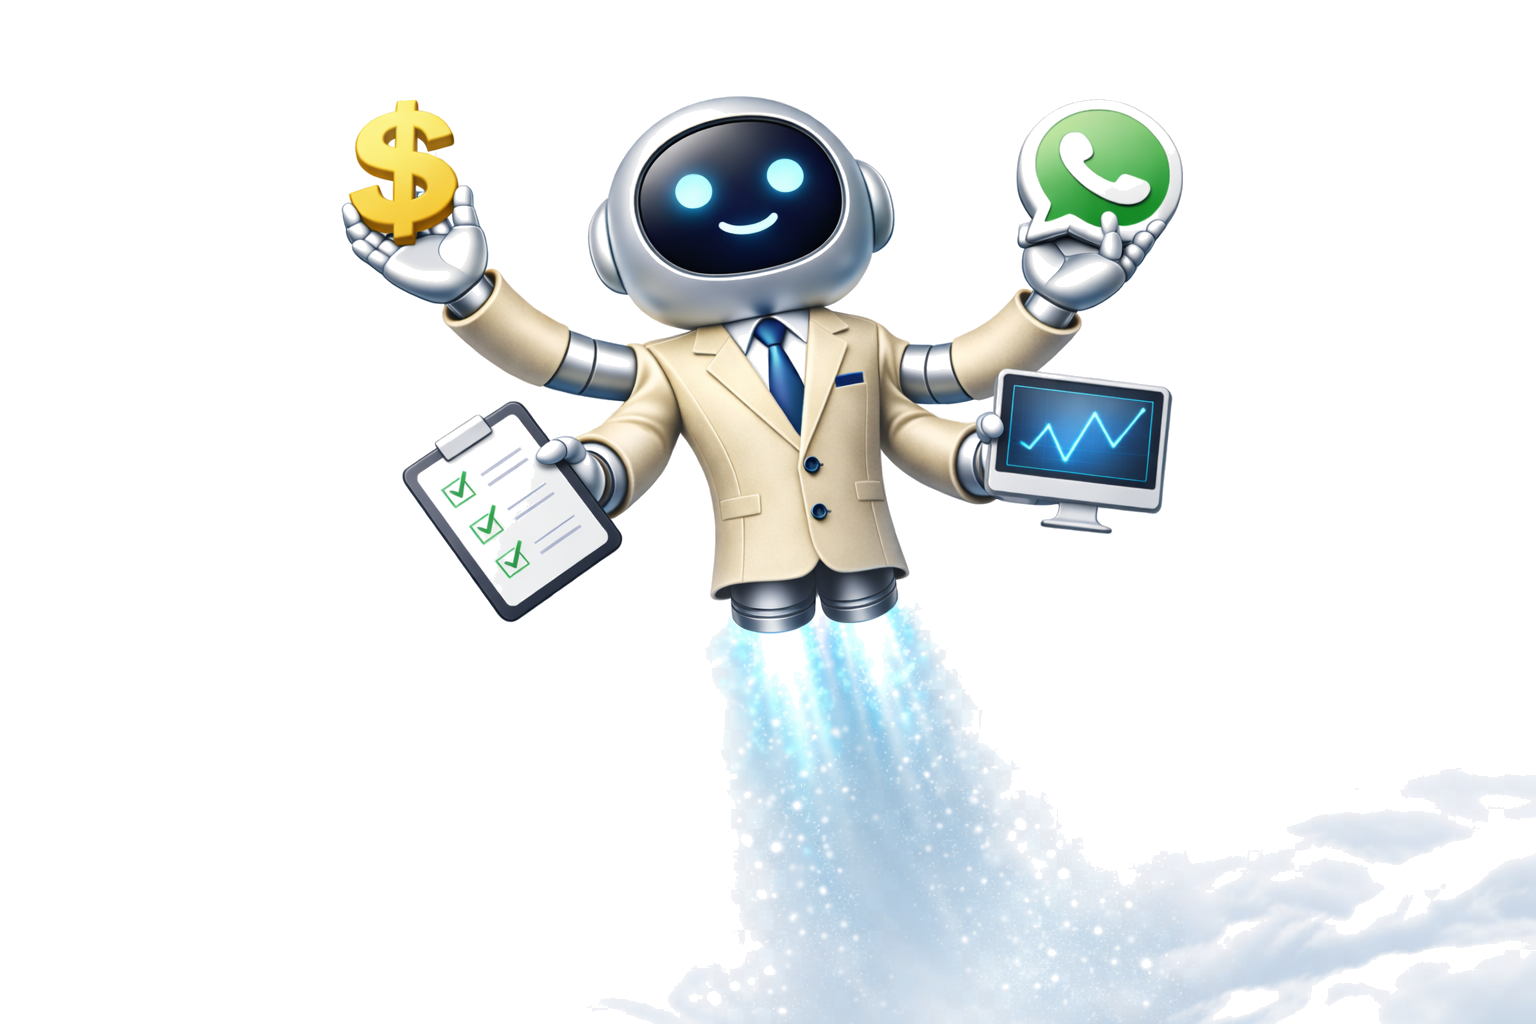
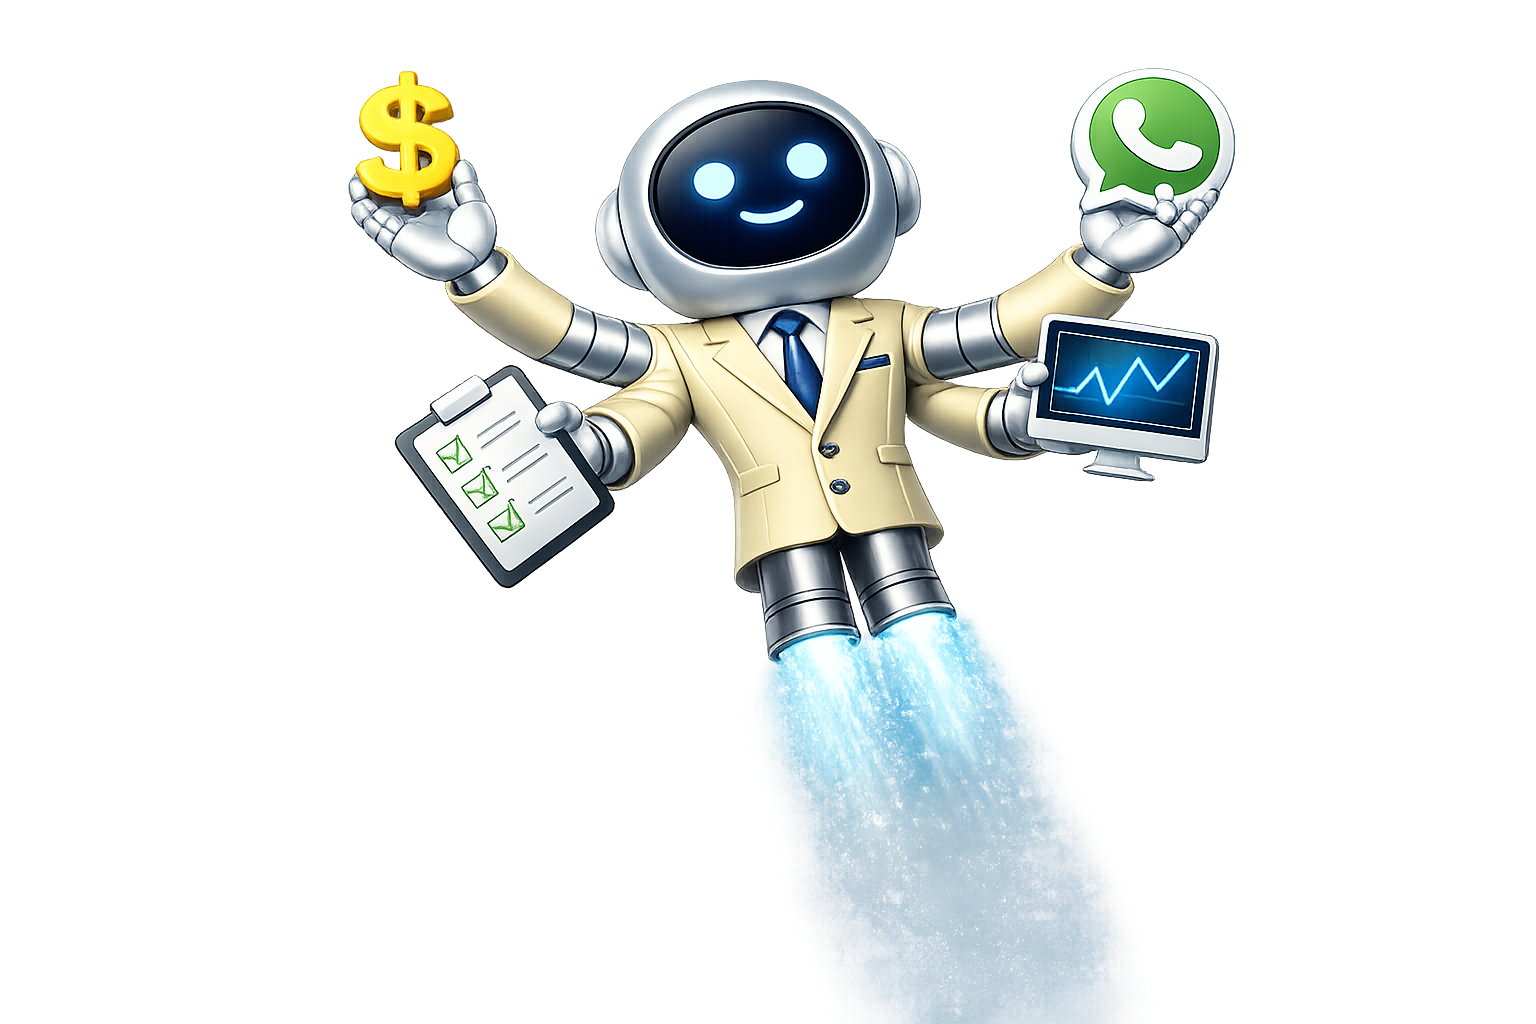
Reverted to commit c421613433c14bb59cb57a7f83ae53c82336e4a0

Changed region(s): [[0.2188, 0.0625, 1.0, 1.0], [0.9375, 0.75, 0.9688, 0.7812]]

diff --git a/src/components/landing/Hero.tsx b/src/components/landing/Hero.tsx
@@ -9,11 +9,106 @@ export const Hero = () => {
   const { data: activeIspsCount = 0 } = useActiveIspsCount();
   return (
     <section 
-      className="relative pt-20 pb-12 md:pt-24 md:pb-16 overflow-hidden"
+      className="relative pt-24 pb-16 md:pt-32 md:pb-24 overflow-hidden"
       aria-labelledby="hero-heading"
     >
       {/* Background Gradient */}
       <div className="absolute inset-0 bg-gradient-to-br from-primary/5 via-background to-accent/5 z-0" />
+      
+      {/* Optical Fiber Network Animation - Behind all content */}
+      <div className="absolute inset-0 overflow-hidden pointer-events-none z-[1] opacity-30">
+        {/* Diagonal fiber lines with data packets */}
+        
+        {/* Line 1: Diagonal down-right (blue) */}
+        <div className="fiber-line fiber-line-1">
+          <div className="fiber-trail fiber-trail-blue" />
+          <div className="fiber-glow fiber-glow-blue" />
+        </div>
+        
+        {/* Line 2: Diagonal down-left (orange) */}
+        <div className="fiber-line fiber-line-2">
+          <div className="fiber-trail fiber-trail-orange" />
+          <div className="fiber-glow fiber-glow-orange" />
+        </div>
+        
+        {/* Line 3: Slight angle (cyan) */}
+        <div className="fiber-line fiber-line-3">
+          <div className="fiber-trail fiber-trail-cyan" />
+          <div className="fiber-glow fiber-glow-cyan" />
+        </div>
+        
+        {/* Line 4: Steep diagonal (blue) */}
+        <div className="fiber-line fiber-line-4">
+          <div className="fiber-trail fiber-trail-blue" />
+          <div className="fiber-glow fiber-glow-blue" />
+        </div>
+        
+        {/* Line 5: Reverse diagonal (orange) */}
+        <div className="fiber-line fiber-line-5">
+          <div className="fiber-trail fiber-trail-orange" />
+          <div className="fiber-glow fiber-glow-orange" />
+        </div>
+        
+        {/* Line 6: Shallow angle (cyan) */}
+        <div className="fiber-line fiber-line-6">
+          <div className="fiber-trail fiber-trail-cyan" />
+          <div className="fiber-glow fiber-glow-cyan" />
+        </div>
+        
+        {/* Line 7: Cross pattern (blue) */}
+        <div className="fiber-line fiber-line-7">
+          <div className="fiber-trail fiber-trail-blue" />
+          <div className="fiber-glow fiber-glow-blue" />
+        </div>
+        
+        {/* Line 8: Reverse cross (orange) */}
+        <div className="fiber-line fiber-line-8">
+          <div className="fiber-trail fiber-trail-orange" />
+          <div className="fiber-glow fiber-glow-orange" />
+        </div>
+
+        {/* Vertical Lines - Bottom to Top */}
+        <div className="fiber-line-vertical fiber-line-v1">
+          <div className="fiber-trail-vertical fiber-trail-blue" />
+          <div className="fiber-glow-vertical fiber-glow-blue" />
+        </div>
+        
+        <div className="fiber-line-vertical fiber-line-v2">
+          <div className="fiber-trail-vertical fiber-trail-cyan" />
+          <div className="fiber-glow-vertical fiber-glow-cyan" />
+        </div>
+        
+        <div className="fiber-line-vertical fiber-line-v3">
+          <div className="fiber-trail-vertical fiber-trail-orange" />
+          <div className="fiber-glow-vertical fiber-glow-orange" />
+        </div>
+        
+        <div className="fiber-line-vertical fiber-line-v4">
+          <div className="fiber-trail-vertical fiber-trail-blue" />
+          <div className="fiber-glow-vertical fiber-glow-blue" />
+        </div>
+
+        <div className="fiber-line-vertical fiber-line-v5">
+          <div className="fiber-trail-vertical fiber-trail-cyan" />
+          <div className="fiber-glow-vertical fiber-glow-cyan" />
+        </div>
+
+        {/* Reverse direction lines - Right to Left */}
+        <div className="fiber-line fiber-line-reverse-1">
+          <div className="fiber-trail fiber-trail-blue fiber-trail-reverse" />
+          <div className="fiber-glow fiber-glow-blue fiber-glow-reverse" />
+        </div>
+        
+        <div className="fiber-line fiber-line-reverse-2">
+          <div className="fiber-trail fiber-trail-orange fiber-trail-reverse" />
+          <div className="fiber-glow fiber-glow-orange fiber-glow-reverse" />
+        </div>
+
+        <div className="fiber-line fiber-line-reverse-3">
+          <div className="fiber-trail fiber-trail-cyan fiber-trail-reverse" />
+          <div className="fiber-glow fiber-glow-cyan fiber-glow-reverse" />
+        </div>
+      </div>
       
       {/* Grid Pattern */}
       <div 
@@ -25,7 +120,7 @@ export const Hero = () => {
       />
 
       <div className="container mx-auto px-4 relative z-10">
-        <div className="grid lg:grid-cols-2 gap-2 items-center">
+        <div className="grid lg:grid-cols-2 gap-8 items-center">
           {/* Content */}
           <div className="text-center lg:text-left">
             {/* Badge */}
@@ -77,12 +172,11 @@ export const Hero = () => {
           </div>
 
           {/* Hero Image - Robot - Positioned closer to title */}
-          {/* gap-2 (8px) entre colunas | lg:-ml-20 (margem negativa esquerda) */}
-          <div className="relative flex items-end justify-center lg:-ml-20">
+          <div className="relative flex items-center justify-center lg:-ml-12">
             <img 
               src={heroRobot} 
               alt="AutoISP Robot - Automação inteligente para provedores"
-              className="w-full max-w-lg lg:max-w-xl xl:max-w-2xl h-auto object-contain drop-shadow-2xl"
+              className="w-full max-w-lg lg:max-w-xl xl:max-w-2xl h-auto object-contain drop-shadow-2xl scale-[1.3]"
             />
           </div>
         </div>
